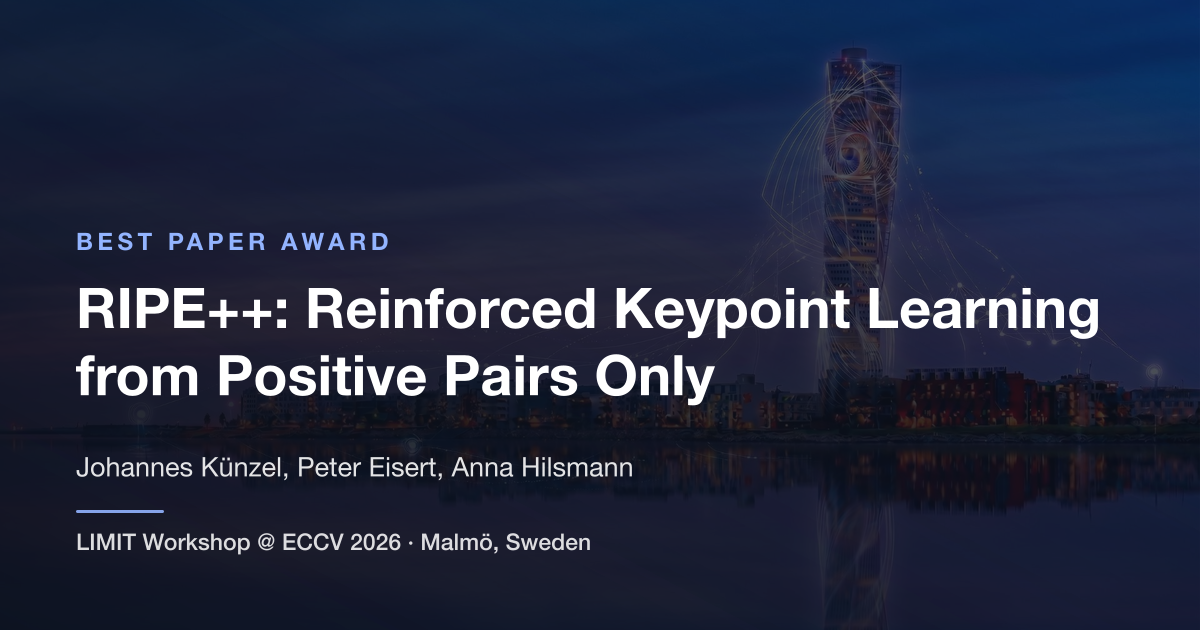
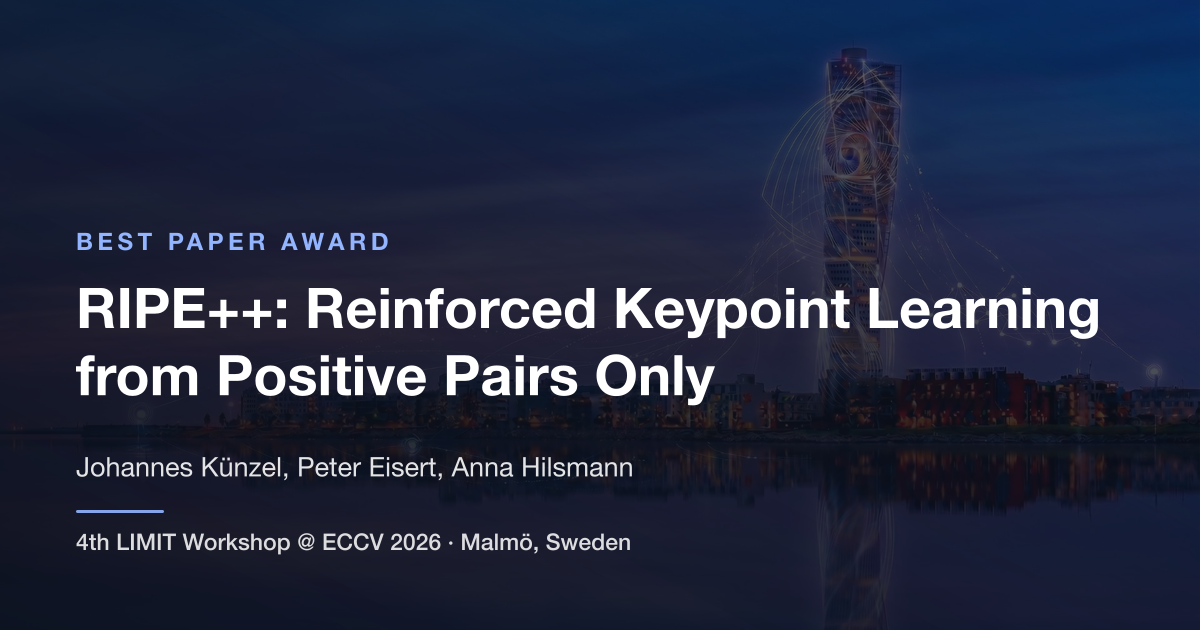
Say which LIMIT this was everywhere the award is described
The certificate names the 4th LIMIT Workshop; nothing else did. The prose
around the award still read "the LIMIT Workshop", which does not say which
of the four, and that text travels further than the certificate does -- it
is the meta description, the text of a post, the line on a profile, and the
foot of the card that turns up in a search result years later.

So the ordinal is now in all of them: the award intro, the announcement in
Latest News, the summary sentence, the page title, the name of the LinkedIn
certification, and the card. The issuer of that certification is left as
"LIMIT Workshop @ ECCV 2026" without one, since the workshop as a body does
not gain an ordinal by running a fourth time; it is the award that belongs
to an edition.

"LIMIT Workshop @ ECCV 2026" had been written into four places in the
TypeScript. It is `awards.edition` in workshop.json now and the routes read
it, so the fifth workshop does not need a grep through src.

The ordinal still appears in four separate strings, because each of them is
a different sentence and composing them from one field would read worse than
it is worth. That is a real risk -- whoever prepares LIMIT 5 changes the
label and the intro and misses the news item -- so there is a test that
takes the ordinal from the label and requires the other three to agree.
Bumping the label alone fails it three times.

Changed region(s): [[0.0617, 0.8444, 0.5242, 0.8746]]

diff --git a/src/app/routes/BestPaperAward.tsx b/src/app/routes/BestPaperAward.tsx
@@ -43,16 +43,22 @@ const AWARD_URL = `${seoDefaults.SITE_URL}${AWARD_PATH}`;
 
 const [awardedPaper] = awardedPapers;
 
+/** "4th LIMIT Workshop @ ECCV 2026". Which edition this was belongs in the
+ *  award's own text and not only on the certificate: the workshop has run
+ *  four times, and a post or a CV line saying just "LIMIT Workshop" does not
+ *  say which. Held in workshop.json so the fifth is a data change. */
+const { edition } = workshopData.awards;
+
 /** Written once here: the meta description, the share text and the page's own
  *  summary line are the same sentence, and it should not be possible to
  *  update one of the three and leave the others behind. */
-const summary = awardedPaper ? buildAwardSummary(awardedPaper) : "";
+const summary = awardedPaper ? buildAwardSummary(awardedPaper, edition) : "";
 
 export const meta: Route.MetaFunction = () =>
   buildMeta({
     title: awardedPaper
-      ? `${awardedPaper.award} — LIMIT Workshop @ ECCV 2026`
-      : "Award — LIMIT Workshop @ ECCV 2026",
+      ? `${awardedPaper.award} — ${edition}`
+      : `Award — ${edition}`,
     description: summary,
     path: AWARD_PATH,
     // The card built by scripts/award-assets/render_award_assets.py, naming
@@ -79,7 +85,10 @@ const shareTargets = buildShareTargets(summary, AWARD_URL);
 
 const linkedInProfileUrl = awardedPaper
   ? buildLinkedInCertificationUrl({
-      name: `${awardedPaper.award} — LIMIT Workshop @ ECCV 2026`,
+      // The certification's name is what appears on the profile, so it
+      // carries the edition; the issuer is the workshop as a body, which does
+      // not gain an ordinal by running a fourth time.
+      name: `${awardedPaper.award} — ${edition}`,
       organization: "LIMIT Workshop @ ECCV 2026",
       issueYear: 2026,
       issueMonth: 9,

diff --git a/src/data/award-assets.test.ts b/src/data/award-assets.test.ts
@@ -5,6 +5,7 @@ import { fileURLToPath } from "node:url";
 import { describe, expect, it } from "vitest";
 
 import certificateData from "./award-certificates.json";
+import workshopData from "./workshop.json";
 import { awardedPapers } from "@/lib/award";
 
 /**
@@ -34,6 +35,39 @@ describe("the awarded paper", () => {
 
     expect(paper.url).not.toBe("");
     expect(() => new URL(paper.url)).not.toThrow();
+  });
+});
+
+describe("which edition of the workshop the award belongs to", () => {
+  const { edition, intro, certificate } = workshopData.awards;
+
+  /** "4th" out of "4th LIMIT Workshop @ ECCV 2026". */
+  const ordinal = edition.match(/^\d+(?:st|nd|rd|th)/)?.[0];
+
+  it("is stated in the award's label", () => {
+    expect(ordinal).toBeDefined();
+  });
+
+  /**
+   * The ordinal is written out in several sentences rather than composed from
+   * one field, because each of them is prose and reads differently. That is
+   * fine to write and easy to half-update: whoever prepares the 5th LIMIT
+   * will change the label and the intro and can miss the news item or the
+   * certificate, leaving the site claiming two different editions at once.
+   * This is the check that fails when that happens.
+   */
+  it.each([
+    ["the award intro", () => intro],
+    ["the certificate header", () => certificate.workshopFullName],
+    [
+      "the announcement in Latest News",
+      () =>
+        workshopData.home.latestNews.find((item) =>
+          item.title.includes("Best Paper Award"),
+        )?.content ?? "",
+    ],
+  ])("is the same ordinal in %s", (_, source) => {
+    expect(source()).toContain(ordinal);
   });
 });
 

diff --git a/src/lib/award-share.test.ts b/src/lib/award-share.test.ts
@@ -21,19 +21,28 @@ const paper = {
 const AWARD_URL =
   "https://eccv2026-limit-workshop.limitlab.xyz/best-paper-award";
 
+/** Which LIMIT this was. The workshop has run four times, so the summary has
+ *  to say which one, and it comes from workshop.json rather than the lib. */
+const EDITION = "4th LIMIT Workshop @ ECCV 2026";
+
 describe("buildAwardSummary", () => {
   it("names the award, the paper and the authors", () => {
-    const summary = buildAwardSummary(paper);
+    const summary = buildAwardSummary(paper, EDITION);
 
     expect(summary).toContain("Best Paper Award");
     expect(summary).toContain(paper.title);
     expect(summary).toContain(paper.authors);
-    expect(summary).toContain("LIMIT Workshop @ ECCV 2026");
+  });
+
+  it("says which edition of the workshop it was", () => {
+    // "LIMIT Workshop" alone does not say which of the four, and this
+    // sentence is what dates the award in a post or on a profile.
+    expect(buildAwardSummary(paper, EDITION)).toContain("4th LIMIT Workshop");
   });
 });
 
 describe("buildShareTargets", () => {
-  const summary = buildAwardSummary(paper);
+  const summary = buildAwardSummary(paper, EDITION);
   const targets = buildShareTargets(summary, AWARD_URL);
   const byName = Object.fromEntries(targets.map((t) => [t.name, t.href]));
 

diff --git a/src/lib/award-share.ts b/src/lib/award-share.ts
@@ -29,12 +29,21 @@ export type ShareTarget = {
  * and the summary shown on the page. One string for all three: they say the
  * same thing, and three copies would be three things to keep in step.
  *
+ * `edition` names which LIMIT this was — "4th LIMIT Workshop @ ECCV 2026" —
+ * and comes from workshop.json rather than being written in here. The
+ * workshop has run four times and this sentence is what a reader of a post
+ * has to date the award by; a hardcoded name would have to be found in the
+ * source and changed for the fifth.
+ *
  * Curly quotes rather than straight ones because this is prose, and it is
  * read as prose in a feed. They survive percent-encoding like any other
  * non-ASCII character.
  */
-export function buildAwardSummary(paper: SummarisablePaper): string {
-  return `${paper.award} at the LIMIT Workshop @ ECCV 2026: “${paper.title}” by ${paper.authors}.`;
+export function buildAwardSummary(
+  paper: SummarisablePaper,
+  edition: string,
+): string {
+  return `${paper.award} at the ${edition}: “${paper.title}” by ${paper.authors}.`;
 }
 
 /**

diff --git a/scripts/award-assets/render_award_assets.py b/scripts/award-assets/render_award_assets.py
@@ -87,6 +87,7 @@ class Award:
     conference: str
     conference_full_name: str
     workshop_full_name: str
+    edition: str
     signatory_name: str
     signatory_role: str
     date: str
@@ -95,9 +96,14 @@ class Award:
 
     @property
     def billing(self) -> str:
-        """`LIMIT Workshop @ ECCV 2026 · Malmö, Sweden`, the one line that
-        says which workshop this was and where, used on both artefacts."""
-        return f"LIMIT Workshop @ {self.conference} · {self.location}"
+        """`4th LIMIT Workshop @ ECCV 2026 · Malmö, Sweden`, the line at the
+        foot of the social card saying which workshop this was and where.
+
+        The ordinal is here for the same reason it is on the certificate: the
+        card is what most people will see of this award, often years later in
+        a search result, and "LIMIT Workshop" alone does not say which of the
+        four it was."""
+        return f"{self.edition} · {self.location}"
 
 
 def load_award() -> Award:
@@ -135,6 +141,7 @@ def load_award() -> Award:
         ).strip(),
         conference_full_name=certificate["conferenceFullName"],
         workshop_full_name=certificate["workshopFullName"],
+        edition=workshop["awards"]["edition"],
         signatory_name=signatory["name"],
         signatory_role=signatory["role"],
         date=event["date"],
